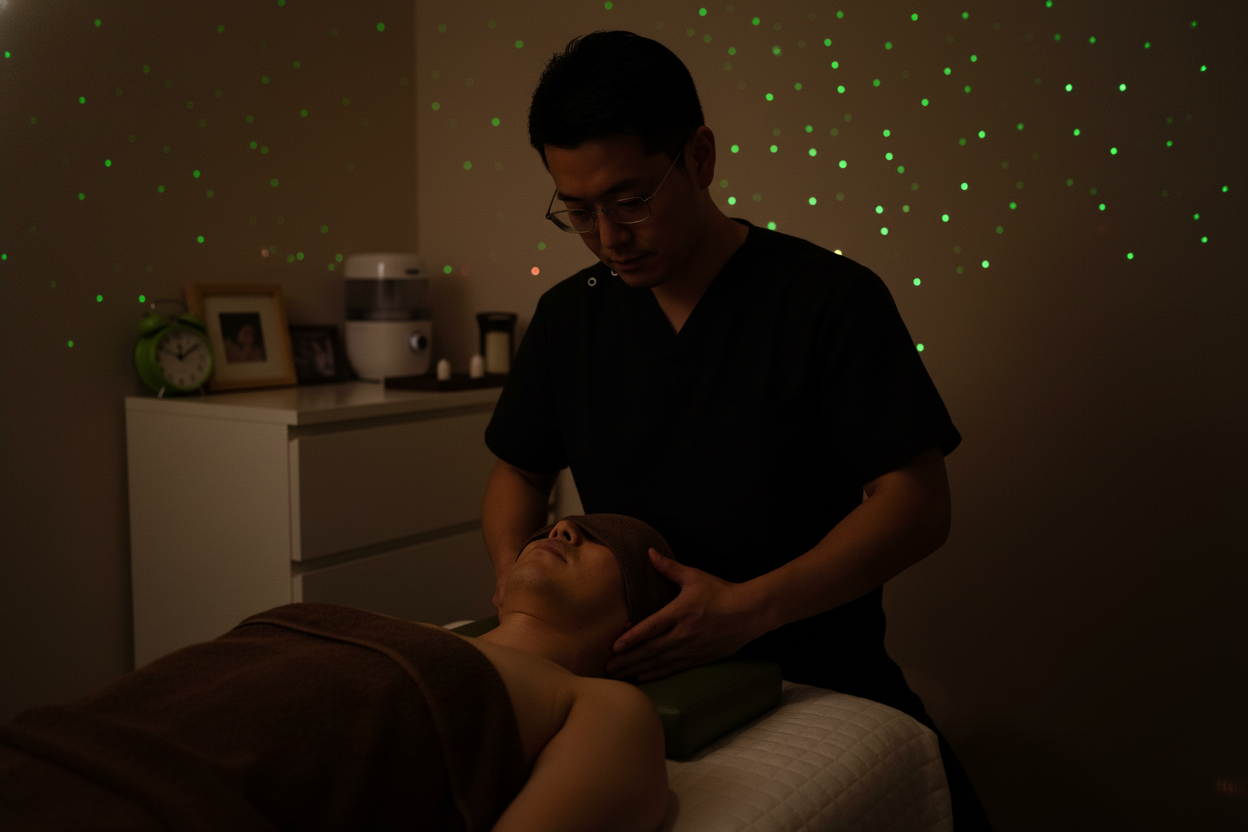
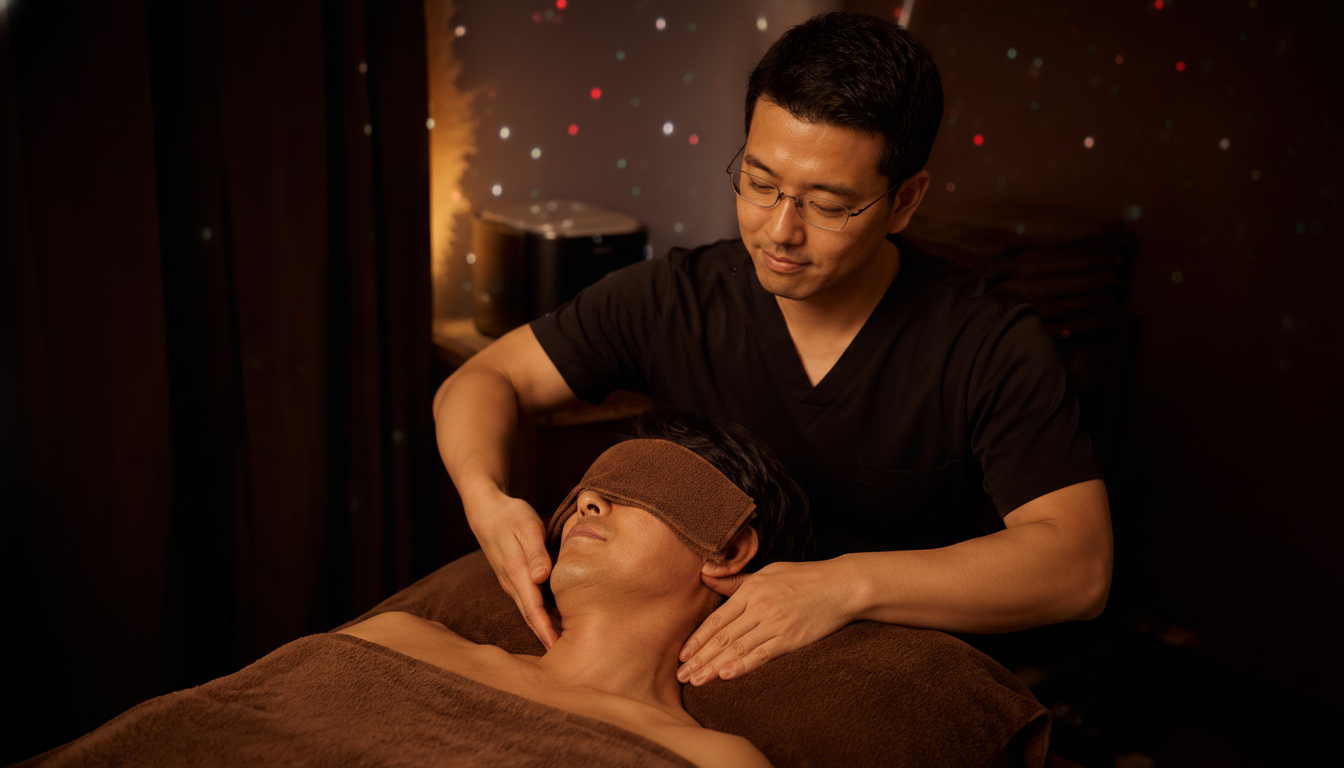
Lovers v3: S5を鎖骨リンパに変更（足画像削除）・S7を首施術に変更（別空間問題解消）

diff --git a/lovers-v3.html b/lovers-v3.html
@@ -187,11 +187,11 @@
       </div>
 
       <div class="scene-card">
-        <img class="scene-img" src="lovers-images/v3/v2_S3.png" alt="S5">
+        <img class="scene-img" src="lovers-images/v3/S5.png" alt="S5">
         <div class="scene-body">
-          <div class="scene-head"><span class="scene-num">S5</span><span class="scene-sec">8-10s</span><span class="scene-status done">💡 解決提示</span></div>
-          <h4>扉を開けて入る（後ろ姿）</h4>
-          <p>お客様が扉を引いて入店する瞬間／中の温かい光に向かう</p>
+          <div class="scene-head"><span class="scene-num">S5</span><span class="scene-sec">8-10s</span><span class="scene-status done">💆 シズル感ASMR</span></div>
+          <h4>鎖骨周りのリンパマッサージ</h4>
+          <p>両手で鎖骨の付け根を中心から外側へ流すデコルテリンパドレナージュ</p>
         </div>
       </div>
 
@@ -208,8 +208,8 @@
         <img class="scene-img" src="lovers-images/v3/S7.png" alt="S7">
         <div class="scene-body">
           <div class="scene-head"><span class="scene-num">S7</span><span class="scene-sec">12-14s</span><span class="scene-status done">💆 シズル感ASMR</span></div>
-          <h4>両手で首・鎖骨へ圧（参考動画ref_07再現）</h4>
-          <p>先生が両手を首の両側に並べてリンパを流す。参考動画と同じ信頼感ある正面構図</p>
+          <h4>首によるリンパ施術（後ろ＋側面）</h4>
+          <p>両手で首の後ろ・側面を支えて優しく牽引・リンパドレナージュ</p>
         </div>
       </div>
 
